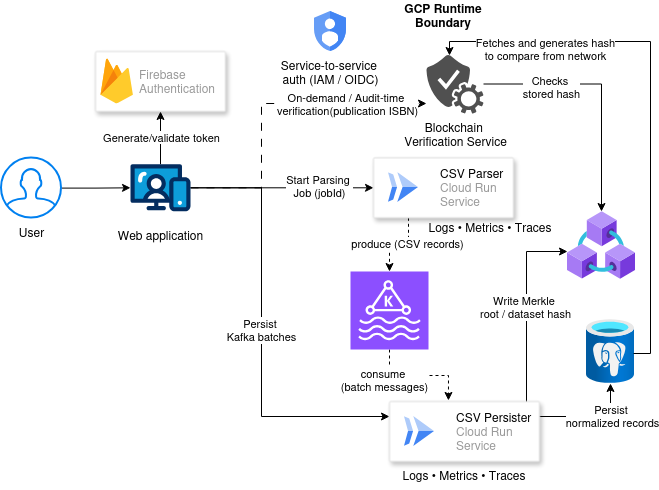
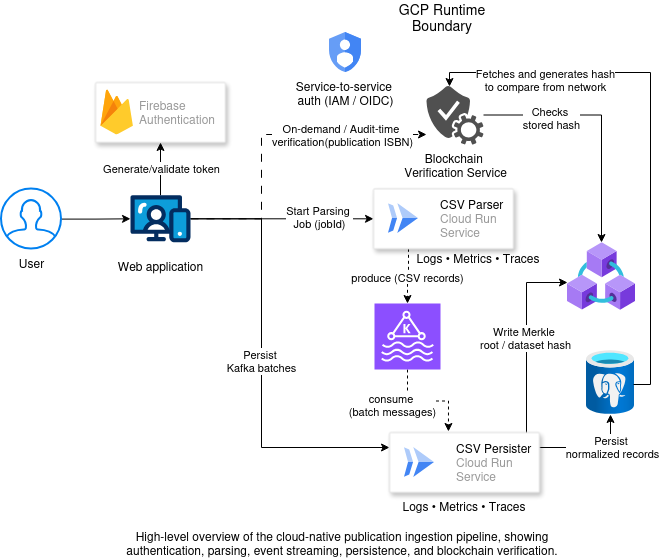
Added drawio source of system flow diagram

diff --git a/README.md b/README.md
@@ -29,3 +29,21 @@ At a high level:
 - Verification can be performed independently by recomputing and comparing hashes
 
 ![Architecture Diagram](docs/architecture/publication-flow-diagram.png)
+
+### Diagram Source
+
+The original diagram file (`.drawio`) is in the `docs/architecture/` folder. You can open it in **app.diagrams.net** to explore or modify it.
+
+| Component   | Tech             |
+| ----------- |------------------|
+| Auth        | Firebase         |
+| Compute     | GCP Cloud Run    |
+| Messaging   | Confluent Kafka  |
+| Persistence | PostgreSQL       |
+| Blockchain  | Ethereum Sepolia |
+
+
+For detailed architecture discussion:
+- Designing a Hybrid GCP Architecture — Medium Part 1 :contentReference[oaicite:3]{index=3}
+- Event-Driven Ingestion with Kafka — Medium Part 2 :contentReference[oaicite:4]{index=4}
+- Making Data Immutable with Blockchain — Medium Part 3 :contentReference[oaicite:5]{index=5}
